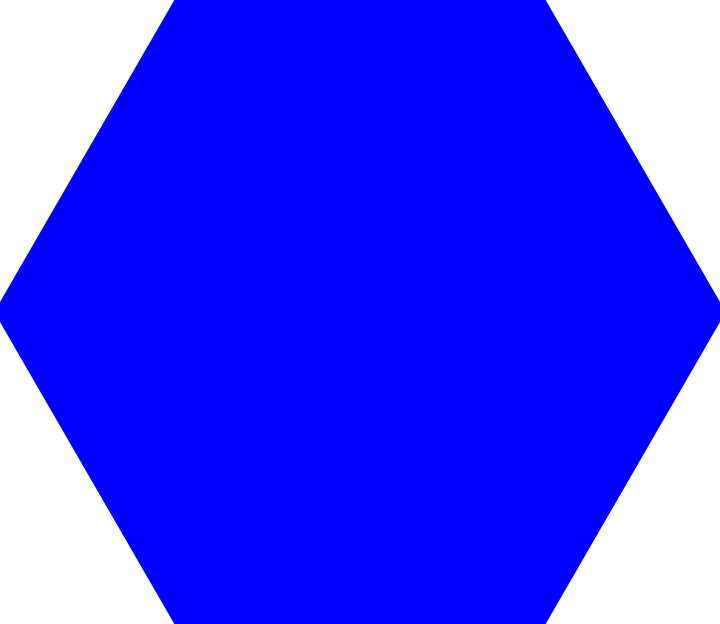
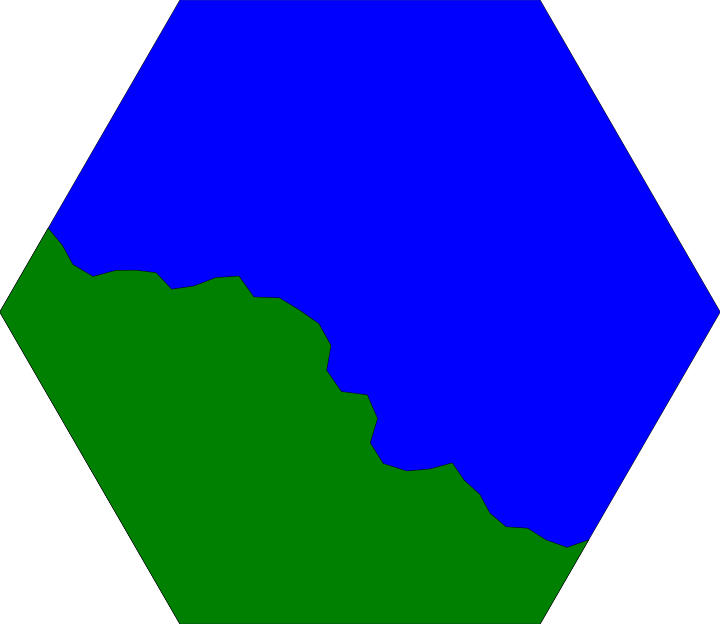
implemented coast "wiggle" function in js
node js is now in a better state than python. functions are better defined and water is drawen before land.

diff --git a/Hex.js b/Hex.js
@@ -16,12 +16,26 @@ function main(){
     for (i=0; i< waterarray.length;i++){
         ctx.lineTo(waterarray[i][0],waterarray[i][1]);
     }
-    ctx.lineWidth = 10
+    //ctx.lineWidth = 10
     ctx.closePath()
-    ctx.strokeStyle = 'blue'
+    //ctx.strokeStyle = 'blue'
     ctx.fillStyle = 'blue'
     ctx.stroke()
     ctx.fill()
+
+    landarray = land(r,0,5,0.3)
+    ctx.beginPath();
+    ctx.moveTo(landarray[0][0],landarray[0][1])
+    for (i=0; i< landarray.length;i++){
+        ctx.lineTo(landarray[i][0],landarray[i][1]);
+    }
+    ctx.lineWidth = 1
+    ctx.closePath()
+    ctx.strokeStyle = 'black'
+    ctx.fillStyle = 'green'
+    ctx.stroke()
+    ctx.fill()
+
     //ctx.fillRect(50, 50, 100, 100)
     fs.writeFileSync('tiles/node-tile.jpg', canvas.toBuffer())
 }
@@ -38,11 +52,56 @@ function water(r){
     return waterarray
 }
 
-function land(first_edge, last_edge){
-    
+function land(r, first_point, last_point, wiggle_factor){
+    width = Math.round(r * 2)
+    height = Math.round(Math.sqrt(3)*r)
+    r3 = (r*Math.sqrt(3)/2)/Math.cos(Math.PI/12)
+    landarray = []
+    x = width/2+r3*Math.sin(-2*Math.PI/12*first_point+Math.PI/4)
+    y = height/2+r3*Math.cos(-2*Math.PI/12*first_point+Math.PI/4)
+    landarray.push([x, y])
+    for (i = Math.floor(first_point/2)+1; i < last_point/2+1; i++) {
+        x = width/2+r*Math.sin(-2*Math.PI/6*i+Math.PI/2)
+        y = height/2+r*Math.cos(-2*Math.PI/6*i+Math.PI/2)
+        landarray.push([x, y])
+    }
+    x = width/2+r3*Math.sin(-2*Math.PI/12*last_point+Math.PI/4)
+    y = height/2+r3*Math.cos(-2*Math.PI/12*last_point+Math.PI/4)
+    landarray.push([x, y])
+    w = wiggle(landarray[landarray.length-1],landarray[0],wiggle_factor)
+    landarray = landarray.concat(w)
+    return landarray
 }
 
+function wiggle(start, end, w_factor){
+    wpoly = [start, end]
+    for (m=1; m<6; m++){
+        l = wpoly.length-1
+        temppoly = []
+        for (n=0; n<l; n += 1){
+            hyp = Math.pow(Math.pow(wpoly[n][0] - wpoly[n+1][0],2) + Math.pow(wpoly[n][1] - wpoly[n+1][1],2),0.5)
+            ang = Math.atan2((wpoly[n][0] - wpoly[n+1][0]),(wpoly[n][1] - wpoly[n+1][1]))+Math.PI/2
+            r = Math.min(hyp*w_factor,360/10)
+            r = Math.random() * (r - (-r)) + (-r)
+            x = mean([wpoly[n][0], wpoly[n+1][0]])+r*Math.sin(ang)
+            y = mean([wpoly[n][1], wpoly[n+1][1]])+r*Math.cos(ang)
+            new_point = [x,y]
+            temppoly.push(wpoly[n], new_point)
+        }
+        temppoly.push(wpoly[l])
+        wpoly = JSON.parse(JSON.stringify(temppoly));
+    }
+    wpoly.push()
+    wpoly.pop()
+    return wpoly
+}
 
-
+function mean(numbers) {
+    var total = 0, i;
+    for (i = 0; i < numbers.length; i++) {
+        total += numbers[i];
+    }
+    return (total / numbers.length)
+}
 
 main()
